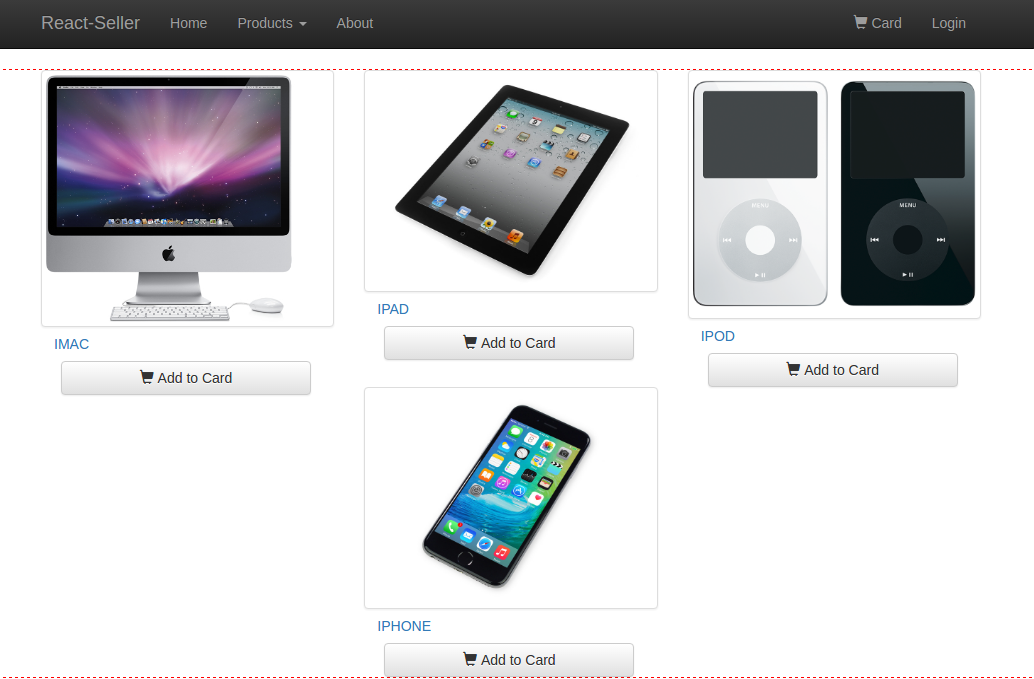
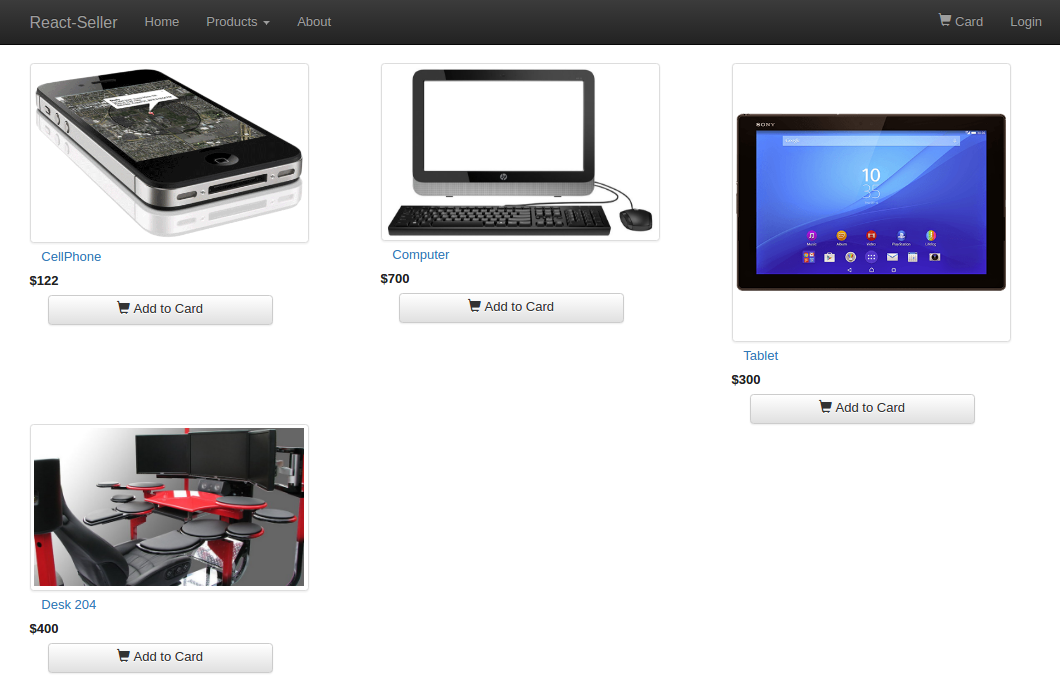
Added price to show in the home page

diff --git a/client/src/components/HomeComponent.js b/client/src/components/HomeComponent.js
@@ -6,7 +6,7 @@ import {Grid, Row, Col, Image, Button, ButtonToolbar, Glyphicon, Modal, FormGrou
 
 class HomeComponent extends React.Component {
   handleClick = () => {
-    let item =  {
+    let item = {
                   quantity: this.state.quantity,
                   price: this.state.product.price,
                   totalPrice: this.state.product.price * this.state.quantity,
@@ -29,7 +29,7 @@ class HomeComponent extends React.Component {
     this.setState({ product: product});
   };
 
-  constructor(){
+  constructor() {
     super();
     this.productURL = 'http://localhost:3000/api/products';
     this.orderURL = 'http://localhost:3000/api/orderDetails';
@@ -60,7 +60,8 @@ class HomeComponent extends React.Component {
             {this.state.products.map(function (product) {
               return <Col xs={6} md={4} height={400}>
                 <Image width={310} height={300} src={product.img} thumbnail />
-                <Button xs={12} md={12}  bsStyle="link" href={'product-show/' + product.id}>{product.name}</Button>
+                <Button xs={12} md={12}  bsStyle="link" href={'product-show/' + product.id}>{product.name}</Button><br/>
+                <ControlLabel>${product.price}</ControlLabel>
                 <ButtonToolbar>
                   <Button onClick={()=>this.handleClickBefore(product)} style={{width: 250, marginLeft: 25}}><Glyphicon glyph="shopping-cart"/> Add to Card </Button>
                 </ButtonToolbar>
@@ -78,8 +79,9 @@ class HomeComponent extends React.Component {
               <Row className="show-grid">
                 <Col xs={6} md={4} height={60}>
                   <Image width={60} height={60} src={this.state.product.img} thumbnail />
-                  {this.state.product.name}
-                </Col>;
+                  {this.state.product.name} <br />
+
+                </Col>
               </Row>
             </Grid>
             <FormGroup controlId = "formCode">
